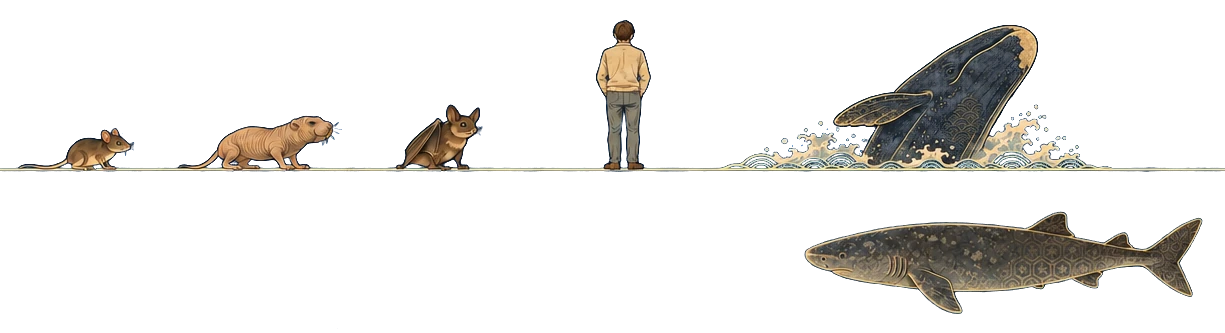
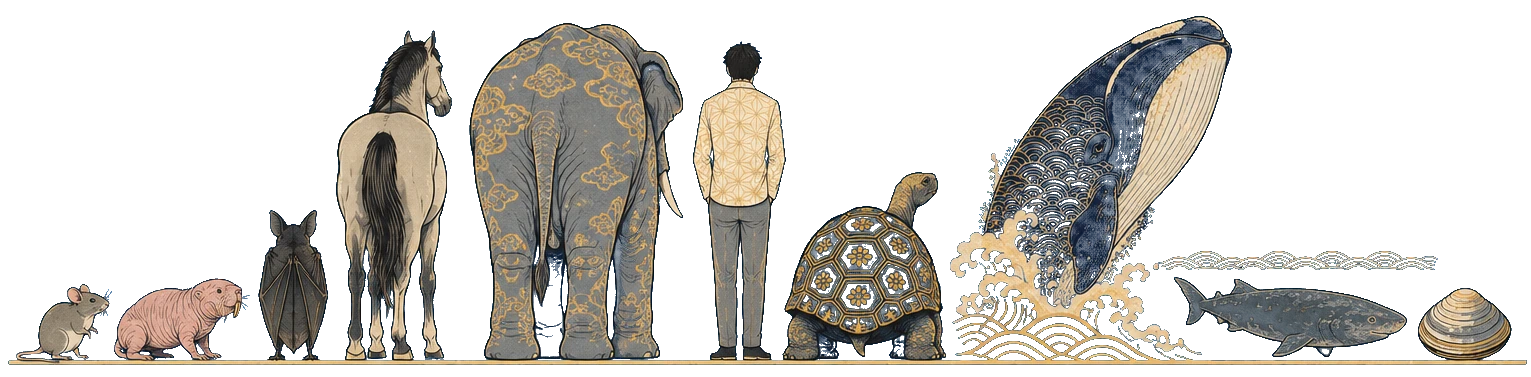
hero: ten-species procession in lifespan order; Tang series on aged silk at ?art=tang
Adds Brandt's bat, horse, Asian elephant, Galapagos tortoise and ocean
quahog (AnAge maximum lifespans) to the procession and the scroll stops,
and gives the Tang variant its own silk ground, ink text and paintings.

diff --git a/film.js b/film.js
@@ -109,46 +109,54 @@
   var ART = document.documentElement.getAttribute('data-art') === 'tang' ? 'p-tang-' : 'p-';
   // Where each figure sits in the procession image (fraction of its width), where the baseline is
   // (offset from the image centre as a fraction of its height) and where the drawn line ends.
-  var LAY = ART === 'p-tang-'
-    ? { mouse: TANG_MOUSE, mole: TANG_MOLE, human: TANG_HUMAN, whale: TANG_WHALE, shark: TANG_SHARK, base: TANG_BASE, right: TANG_RIGHT }
-    : { mouse: 0.078, mole: 0.220, human: 0.509, whale: 0.745, shark: 0.819, base: 0.0075, right: 0.481 };
+  // The procession, in lifespan order (AnAge maximum lifespan). x is each figure's centre as a fraction of the
+  // painting's width for each art series; z is how far the camera pushes in on it.
+  var SPECIES = [
+    { name: 'House mouse', years: '4 years', uk: 0.043, tang: 0.040, z: 2.7 },
+    { name: 'Naked mole-rat', years: '31 years', uk: 0.114, tang: 0.114, z: 2.7 },
+    { name: 'Brandt’s bat', years: '41 years', uk: 0.190, tang: 0.183, z: 2.7 },
+    { name: 'Horse', years: '57 years', uk: 0.257, tang: 0.270, z: 2.0 },
+    { name: 'Asian elephant', years: '80 years', uk: 0.371, tang: 0.430, z: 1.7 },
+    { name: 'Human', years: '122 years', uk: 0.483, tang: 0.536, z: 2.0 },
+    { name: 'Galápagos tortoise', years: '177 years', uk: 0.567, tang: 0.614, z: 2.2 },
+    { name: 'Bowhead whale', years: '211 years, estimated', uk: 0.721, tang: 0.750, z: 1.45 },
+    { name: 'Greenland shark', years: '392 years, estimated', uk: 0.843, tang: 0.857, z: 1.9 },
+    { name: 'Ocean quahog', years: '507 years', uk: 0.954, tang: 0.964, z: 2.7 }
+  ];
+  var TANG = ART === 'p-tang-';
+  // baseline offset from the painting's centre (fraction of its height) and where the drawn line ends
+  var LAY = TANG ? { base: 0.1923, right: 0.49 } : { base: 0.4576, right: 0.487 };
   var SOURCES = [
-    { src: 'assets/img/' + ART + 'lineup.webp?v=uk1', boostTo: 0.42, boost: 3.0 },   // the small animals get more points than their area would earn
-    { src: 'assets/img/' + ART + 'species.webp?v=uk1' },
-    { src: 'assets/img/' + ART + 'human.webp?v=uk1' },
-    { src: 'assets/img/' + ART + 'tissue.webp?v=uk1' },
-    { src: 'assets/img/' + ART + 'cell.webp?v=uk1' },
-    { src: 'assets/img/' + ART + 'molecule.webp?v=uk1' }
+    { src: 'assets/img/' + ART + 'lineup.webp?v=r2', boostTo: 0.22, boost: 2.6 },   // the small animals get more points than their area would earn
+    { src: 'assets/img/' + ART + 'species.webp?v=r2' },
+    { src: 'assets/img/' + ART + 'human.webp?v=r2' },
+    { src: 'assets/img/' + ART + 'tissue.webp?v=r2' },
+    { src: 'assets/img/' + ART + 'cell.webp?v=r2' },
+    { src: 'assets/img/' + ART + 'molecule.webp?v=r2' }
   ];
 
   /* The road. p is scroll progress through the hero, 0..1.
      x is the place along the lifespan drawing (0 left edge, 1 right edge); z is how far the camera is pushed in. */
-  var STOPS = [
-    { p: 0.000, x: 0.50, z: 1.00 },
-    { p: 0.030, x: 0.50, z: 1.00 },
-    { p: 0.095, x: LAY.mouse, z: 2.6 },
-    { p: 0.160, x: LAY.mole, z: 2.6 },
-    { p: 0.225, x: LAY.human, z: 1.9 },
-    { p: 0.290, x: LAY.whale, z: 1.35 },
-    { p: 0.350, x: LAY.shark, z: 1.35 },
-    { p: 0.415, x: 1.300, z: 1.18 },
-    { p: 1.000, x: 1.300, z: 1.18 }
-  ];
+  var P0 = 0.06, STEP = 0.042;
+  var STOPS = [{ p: 0.000, x: 0.50, z: 1.00 }, { p: 0.030, x: 0.50, z: 1.00 }];
+  var BEATS = [];
+  SPECIES.forEach(function (s, k) {
+    var p = P0 + STEP * k;
+    STOPS.push({ p: p, x: TANG ? s.tang : s.uk, z: s.z });
+    BEATS.push({ p: p, name: s.name, sub: 'Maximum lifespan &nbsp;/&nbsp; ' + s.years, w: 0.021 });
+  });
+  var PEND = P0 + STEP * SPECIES.length;           // the camera runs on past the last animal
+  STOPS.push({ p: PEND + 0.02, x: 1.30, z: 1.18 }, { p: 1.0, x: 1.30, z: 1.18 });
+  BEATS.push({ p: PEND + 0.025, name: '<i>One order of magnitude</i>', sub: 'Ten times the human record', w: 0.03 });
   // Which drawing the points hold: [p, stage]. Flat stretches are where a drawing rests.
-  var STAGE = [[0, 0], [0.445, 0], [0.505, 1], [0.535, 1], [0.590, 2], [0.620, 2], [0.680, 3], [0.710, 3], [0.770, 4], [0.800, 4], [0.860, 5], [1, 5]];
-  var BEATS = [
-    { p: 0.095, name: 'House mouse', sub: 'Maximum lifespan &nbsp;/&nbsp; 4 years' },
-    { p: 0.160, name: 'Naked mole-rat', sub: 'Maximum lifespan &nbsp;/&nbsp; 31 years' },
-    { p: 0.225, name: 'Human', sub: 'Maximum lifespan &nbsp;/&nbsp; 122 years' },
-    { p: 0.290, name: 'Bowhead whale', sub: 'Maximum lifespan &nbsp;/&nbsp; 211 years, estimated' },
-    { p: 0.350, name: 'Greenland shark', sub: 'Maximum lifespan &nbsp;/&nbsp; 392 years, estimated' },
-    { p: 0.420, name: '<i>One order of magnitude</i>', sub: 'Ten times the human record', w: 0.05 },
-    { p: 0.520, name: 'Species', sub: 'Across scales &nbsp;/&nbsp; Pan-species models' },
-    { p: 0.605, name: 'Human', sub: 'Across scales &nbsp;/&nbsp; Human health models' },
-    { p: 0.695, name: 'Tissue', sub: 'Across scales &nbsp;/&nbsp; Virtual tissues' },
-    { p: 0.785, name: 'Cell', sub: 'Across scales &nbsp;/&nbsp; Virtual cells' },
-    { p: 0.875, name: 'Molecule', sub: 'Across scales &nbsp;/&nbsp; Protein models and design', w: 0.045, last: true }
-  ];
+  var STAGE = [[0, 0], [0.53, 0], [0.575, 1], [0.60, 1], [0.65, 2], [0.675, 2], [0.725, 3], [0.75, 3], [0.80, 4], [0.825, 4], [0.875, 5], [1, 5]];
+  BEATS.push(
+    { p: 0.588, name: 'Species', sub: 'Across scales &nbsp;/&nbsp; Pan-species models', w: 0.024 },
+    { p: 0.663, name: 'Human', sub: 'Across scales &nbsp;/&nbsp; Human health models', w: 0.024 },
+    { p: 0.738, name: 'Tissue', sub: 'Across scales &nbsp;/&nbsp; Virtual tissues', w: 0.024 },
+    { p: 0.813, name: 'Cell', sub: 'Across scales &nbsp;/&nbsp; Virtual cells', w: 0.024 },
+    { p: 0.890, name: 'Molecule', sub: 'Across scales &nbsp;/&nbsp; Protein models and design', w: 0.03, last: true }
+  );
   var SOAK_FROM = 0.925, SOAK_TO = 0.992;
 
   function ease(t) { return t < 0.5 ? 4 * t * t * t : 1 - Math.pow(-2 * t + 2, 3) / 2; }
@@ -195,7 +203,7 @@
   ].join('\n');
 
   // The sheet: painted blue that drifts, the open dotted rule, and the turn to paper.
-  var GROUND = ART === 'p-tang-' ? 'vec3(TANG_R, TANG_G, TANG_B)' : 'vec3(0.0, 0.235, 0.55)';
+  var GROUND = ART === 'p-tang-' ? 'vec3(0.66, 0.47, 0.27)' : 'vec3(0.004, 0.30, 0.56)';
   var ground = program(
     'attribute vec2 a; varying vec2 vUv; void main(){ vUv = a*0.5+0.5; gl_Position = vec4(a,0.,1.); }',
     ['precision highp float;', 'varying vec2 vUv;',
@@ -230,7 +238,7 @@
     ['precision highp float;',
       'attribute vec4 aA, aB, aC, aR, aK0, aK1, aK2, aK3, aK4, aK5;',
       'uniform vec2 uRes, uOff0, uOffC, uMouse;',
-      'uniform float uSc0, uScC, uS, uTime, uIntro, uPix, uFade, uSize, uBurst;',
+      'uniform float uSc0, uScC, uS, uTime, uIntro, uPix, uFade, uSize, uBurst; uniform vec3 uFlight;',
       'varying float vAlpha; varying vec3 vCol;',
       'void main(){',
       '  vec2 p0 = aA.xy*uSc0 + uOff0;',
@@ -246,7 +254,7 @@
       '  vCol = aK0.rgb*max(0.0, 1.0-abs(s)) + aK1.rgb*max(0.0, 1.0-abs(s-1.0)) + aK2.rgb*max(0.0, 1.0-abs(s-2.0))',
       '       + aK3.rgb*max(0.0, 1.0-abs(s-3.0)) + aK4.rgb*max(0.0, 1.0-abs(s-4.0)) + aK5.rgb*max(0.0, 1.0-abs(s-5.0));',
       // in flight a point lightens toward the colour of paper, so a dissolve reads as light, then settles into paint
-      '  vCol = mix(vCol, vec3(0.95, 0.94, 0.90), mid*0.55);',
+      '  vCol = mix(vCol, uFlight, mid*0.55);',
       // in flight the points ride a slow turning current
       '  float ang = aR.y*6.2832 + uTime*0.35 + pos.y*0.0021 + pos.x*0.0013;',
       '  vec2 flow = vec2(cos(ang), sin(ang)) * (0.35 + aR.w) + vec2(sin(pos.y*0.006 + uTime*0.5), cos(pos.x*0.006 - uTime*0.4))*0.6;',
@@ -278,7 +286,7 @@
   if (!ground || !points) return;
 
   var GU = uniforms(ground, ['uRes', 'uMouse', 'uTime', 'uSoak', 'uLineY', 'uLineX', 'uBeyond', 'uGrain']);
-  var PU = uniforms(points, ['uRes', 'uOff0', 'uOffC', 'uMouse', 'uSc0', 'uScC', 'uS', 'uTime', 'uIntro', 'uPix', 'uFade', 'uSize', 'uBurst']);
+  var PU = uniforms(points, ['uFlight', 'uRes', 'uOff0', 'uOffC', 'uMouse', 'uSc0', 'uScC', 'uS', 'uTime', 'uIntro', 'uPix', 'uFade', 'uSize', 'uBurst']);
 
   var quad = gl.createBuffer(); gl.bindBuffer(gl.ARRAY_BUFFER, quad);
   gl.bufferData(gl.ARRAY_BUFFER, new Float32Array([-1, -1, 3, -1, -1, 3]), gl.STATIC_DRAW);
@@ -385,9 +393,9 @@
     if (mouse.tx > -9000) { mouse.x += (mouse.tx - mouse.x) * 0.16; mouse.y += (mouse.ty - mouse.y) * 0.16; }
 
     // lifespan drawing: a wide strip standing on a baseline
-    var sc0 = cam.z * W * 0.92 / aspect0;
+    var sc0 = cam.z * W * 0.84 / aspect0;
     var off0x = W * 0.5 - (cam.x - 0.5) * aspect0 * sc0;
-    var baseY = H * 0.72;
+    var baseY = H * 0.84;
     var off0y = baseY - LAY.base * sc0;
     // scale drawings: a disc on the right, beside the caption
     var wide = W / dpr > 1100;
@@ -401,7 +409,7 @@
     gl.uniform2f(GU.uRes, W, H); gl.uniform2f(GU.uMouse, mouse.x, mouse.y);
     gl.uniform1f(GU.uTime, now / 1000); gl.uniform1f(GU.uSoak, soak);
     gl.uniform1f(GU.uLineY, baseY); gl.uniform1f(GU.uLineX, off0x + aspect0 * sc0 * LAY.right);
-    gl.uniform1f(GU.uBeyond, smooth(0.36, 0.40, p) * (1 - smooth(0.445, 0.48, p)));
+    gl.uniform1f(GU.uBeyond, smooth(PEND - 0.03, PEND + 0.01, p) * (1 - smooth(PEND + 0.05, PEND + 0.08, p)));
     gl.uniform1f(GU.uGrain, 0.035);
     gl.drawArrays(gl.TRIANGLES, 0, 3);
 
@@ -413,6 +421,7 @@
     for (var c6 = 0; c6 < 6; c6++) { if (cA[c6] < 0) continue; gl.enableVertexAttribArray(cA[c6]); gl.vertexAttribPointer(cA[c6], 4, gl.UNSIGNED_BYTE, true, 24, c6 * 4); }
     gl.uniform2f(PU.uRes, W, H); gl.uniform2f(PU.uOff0, off0x, off0y); gl.uniform2f(PU.uOffC, offCx, offCy);
     gl.uniform2f(PU.uMouse, mouse.x, mouse.y);
+    gl.uniform3f(PU.uFlight, TANG ? 0.11 : 0.95, TANG ? 0.11 : 0.94, TANG ? 0.10 : 0.90);
     gl.uniform1f(PU.uSc0, sc0); gl.uniform1f(PU.uScC, scC); gl.uniform1f(PU.uS, s);
     gl.uniform1f(PU.uTime, now / 1000); gl.uniform1f(PU.uIntro, intro); gl.uniform1f(PU.uPix, dpr);
     var disc = clamp(s, 0, 1);                       // 0 on the lifespan strip, 1 on the discs

diff --git a/styles.css b/styles.css
@@ -11,7 +11,7 @@
 /* Ying Lab. A press sheet: painted blue, warm paper, ink. Serif titles, hairline rules, small mono labels. */
 
 :root {
-  --blue: #003a88;
+  --blue: #014c8c;
   --paper: #f2f1ed;
   --paper-2: #e9e7e1;
   --press: #0b0a09;
@@ -335,7 +335,7 @@ h3 { font-family: var(--title); font-weight: 400; font-size: 1.5rem; line-height
 /* ---------- Hero film: a pinned WebGL scene driven by scroll ---------- */
 .film, .scroll-cue, .film-cap { display: none; }
 .hero .stage { display: contents; }
-.hero.is-film { height: 1100vh; min-height: 0; padding: 0; display: block; overflow: visible; background: var(--blue); }
+.hero.is-film { height: 1500vh; min-height: 0; padding: 0; display: block; overflow: visible; background: var(--blue); }
 .hero.is-film .stage { position: sticky; top: 0; height: 100vh; height: 100svh; overflow: hidden; display: flex; flex-direction: column; padding-top: clamp(112px, 17vh, 176px); padding-bottom: clamp(28px, 5vh, 56px); }
 .hero.is-film .film { display: block; position: absolute; inset: 0; width: 100%; height: 100%; z-index: 0; }
 .hero.is-film .hero-copy, .hero.is-film .hero-foot { z-index: 2; will-change: opacity, transform; }
@@ -415,3 +415,11 @@ h2.in .ln > i, .statement.in .ln > i { transform: none; }
   .pub-art { width: 72px; height: 72px; grid-row: 1 / span 4; }
   .pub-year, .pub-title, .pub-authors, .pub-venue { grid-column: 2; }
 }
+
+/* Tang series: aged-silk ground. */
+html[data-art="tang"] { --blue: #a8784a; }
+html[data-art="tang"] .blue { --ink: #1d1c19; --ink-2: rgba(29, 28, 25, 0.82); --muted: rgba(29, 28, 25, 0.66); --rule: rgba(29, 28, 25, 0.28); --accent: #1d1c19; }
+html[data-art="tang"] .hero .label, html[data-art="tang"] .hero-sub, html[data-art="tang"] .hero-lede, html[data-art="tang"] .hero.is-film .film-cap, html[data-art="tang"] .hero.is-film .film-cap span, html[data-art="tang"] .brain .prose, html[data-art="tang"] .hero.is-film .scroll-cue { color: #1d1c19; }
+html[data-art="tang"] .hero.is-film .scroll-cue::after, html[data-art="tang"] .film-meter i { background: #1d1c19; }
+html[data-art="tang"] .nav:not(.scrolled) { color: #1d1c19; border-bottom-color: rgba(29, 28, 25, 0.25); }
+html[data-art="tang"] .hero-foot .chip { background: rgba(29, 28, 25, 0.12); color: #1d1c19; }

diff --git a/index.html b/index.html
@@ -14,7 +14,7 @@
 <link rel="canonical" href="https://lab.kejunying.com/">
 <meta name="theme-color" content="#0a53a3">
 <link rel="icon" href="assets/favicon.svg" type="image/svg+xml">
-<link rel="stylesheet" href="styles.css?v=20261014h">
+<link rel="stylesheet" href="styles.css?v=20261014j">
 <script>document.documentElement.classList.add('js');(function(){var a=new URLSearchParams(location.search).get('art');if(a==='tang')document.documentElement.setAttribute('data-art','tang');})();</script>
 </head>
 <body>
@@ -283,9 +283,9 @@
   </div>
 </footer>
 
-<script src="assets/species.js?v=20261014h"></script>
-<script src="data.js?v=20261014h"></script>
-<script src="main.js?v=20261014h"></script>
-<script src="film.js?v=20261014h"></script>
+<script src="assets/species.js?v=20261014j"></script>
+<script src="data.js?v=20261014j"></script>
+<script src="main.js?v=20261014j"></script>
+<script src="film.js?v=20261014j"></script>
 </body>
 </html>
